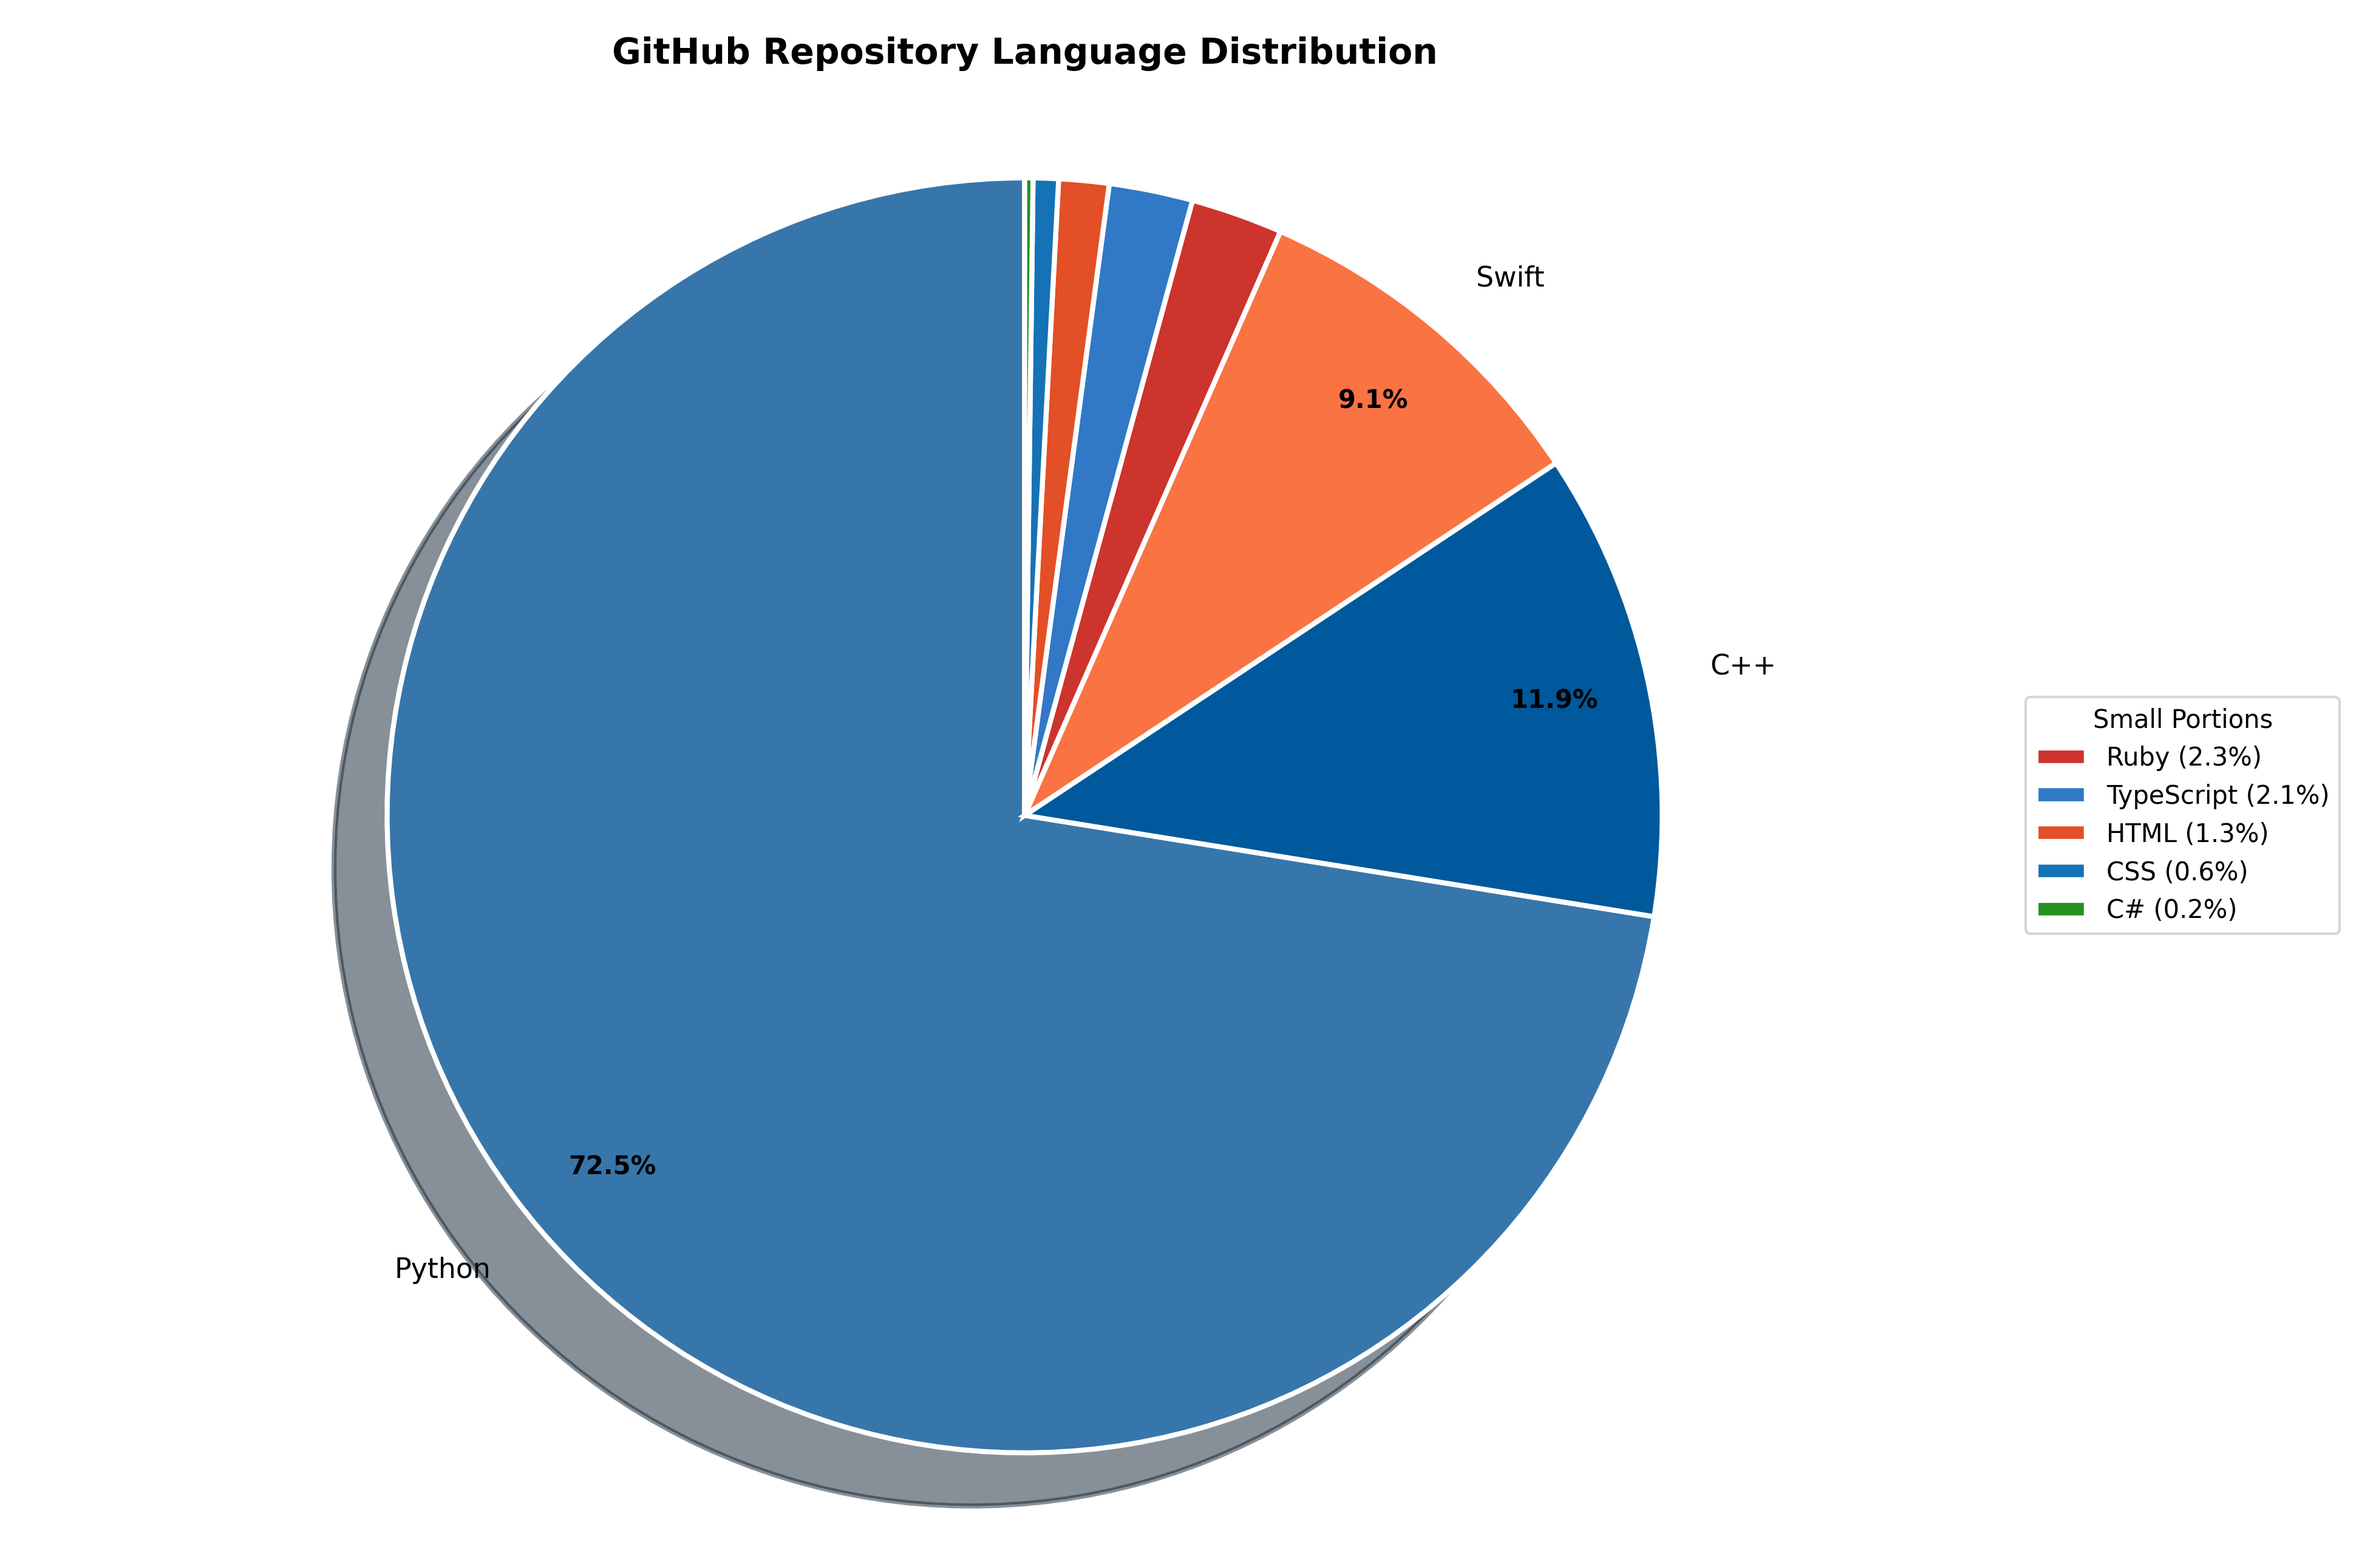
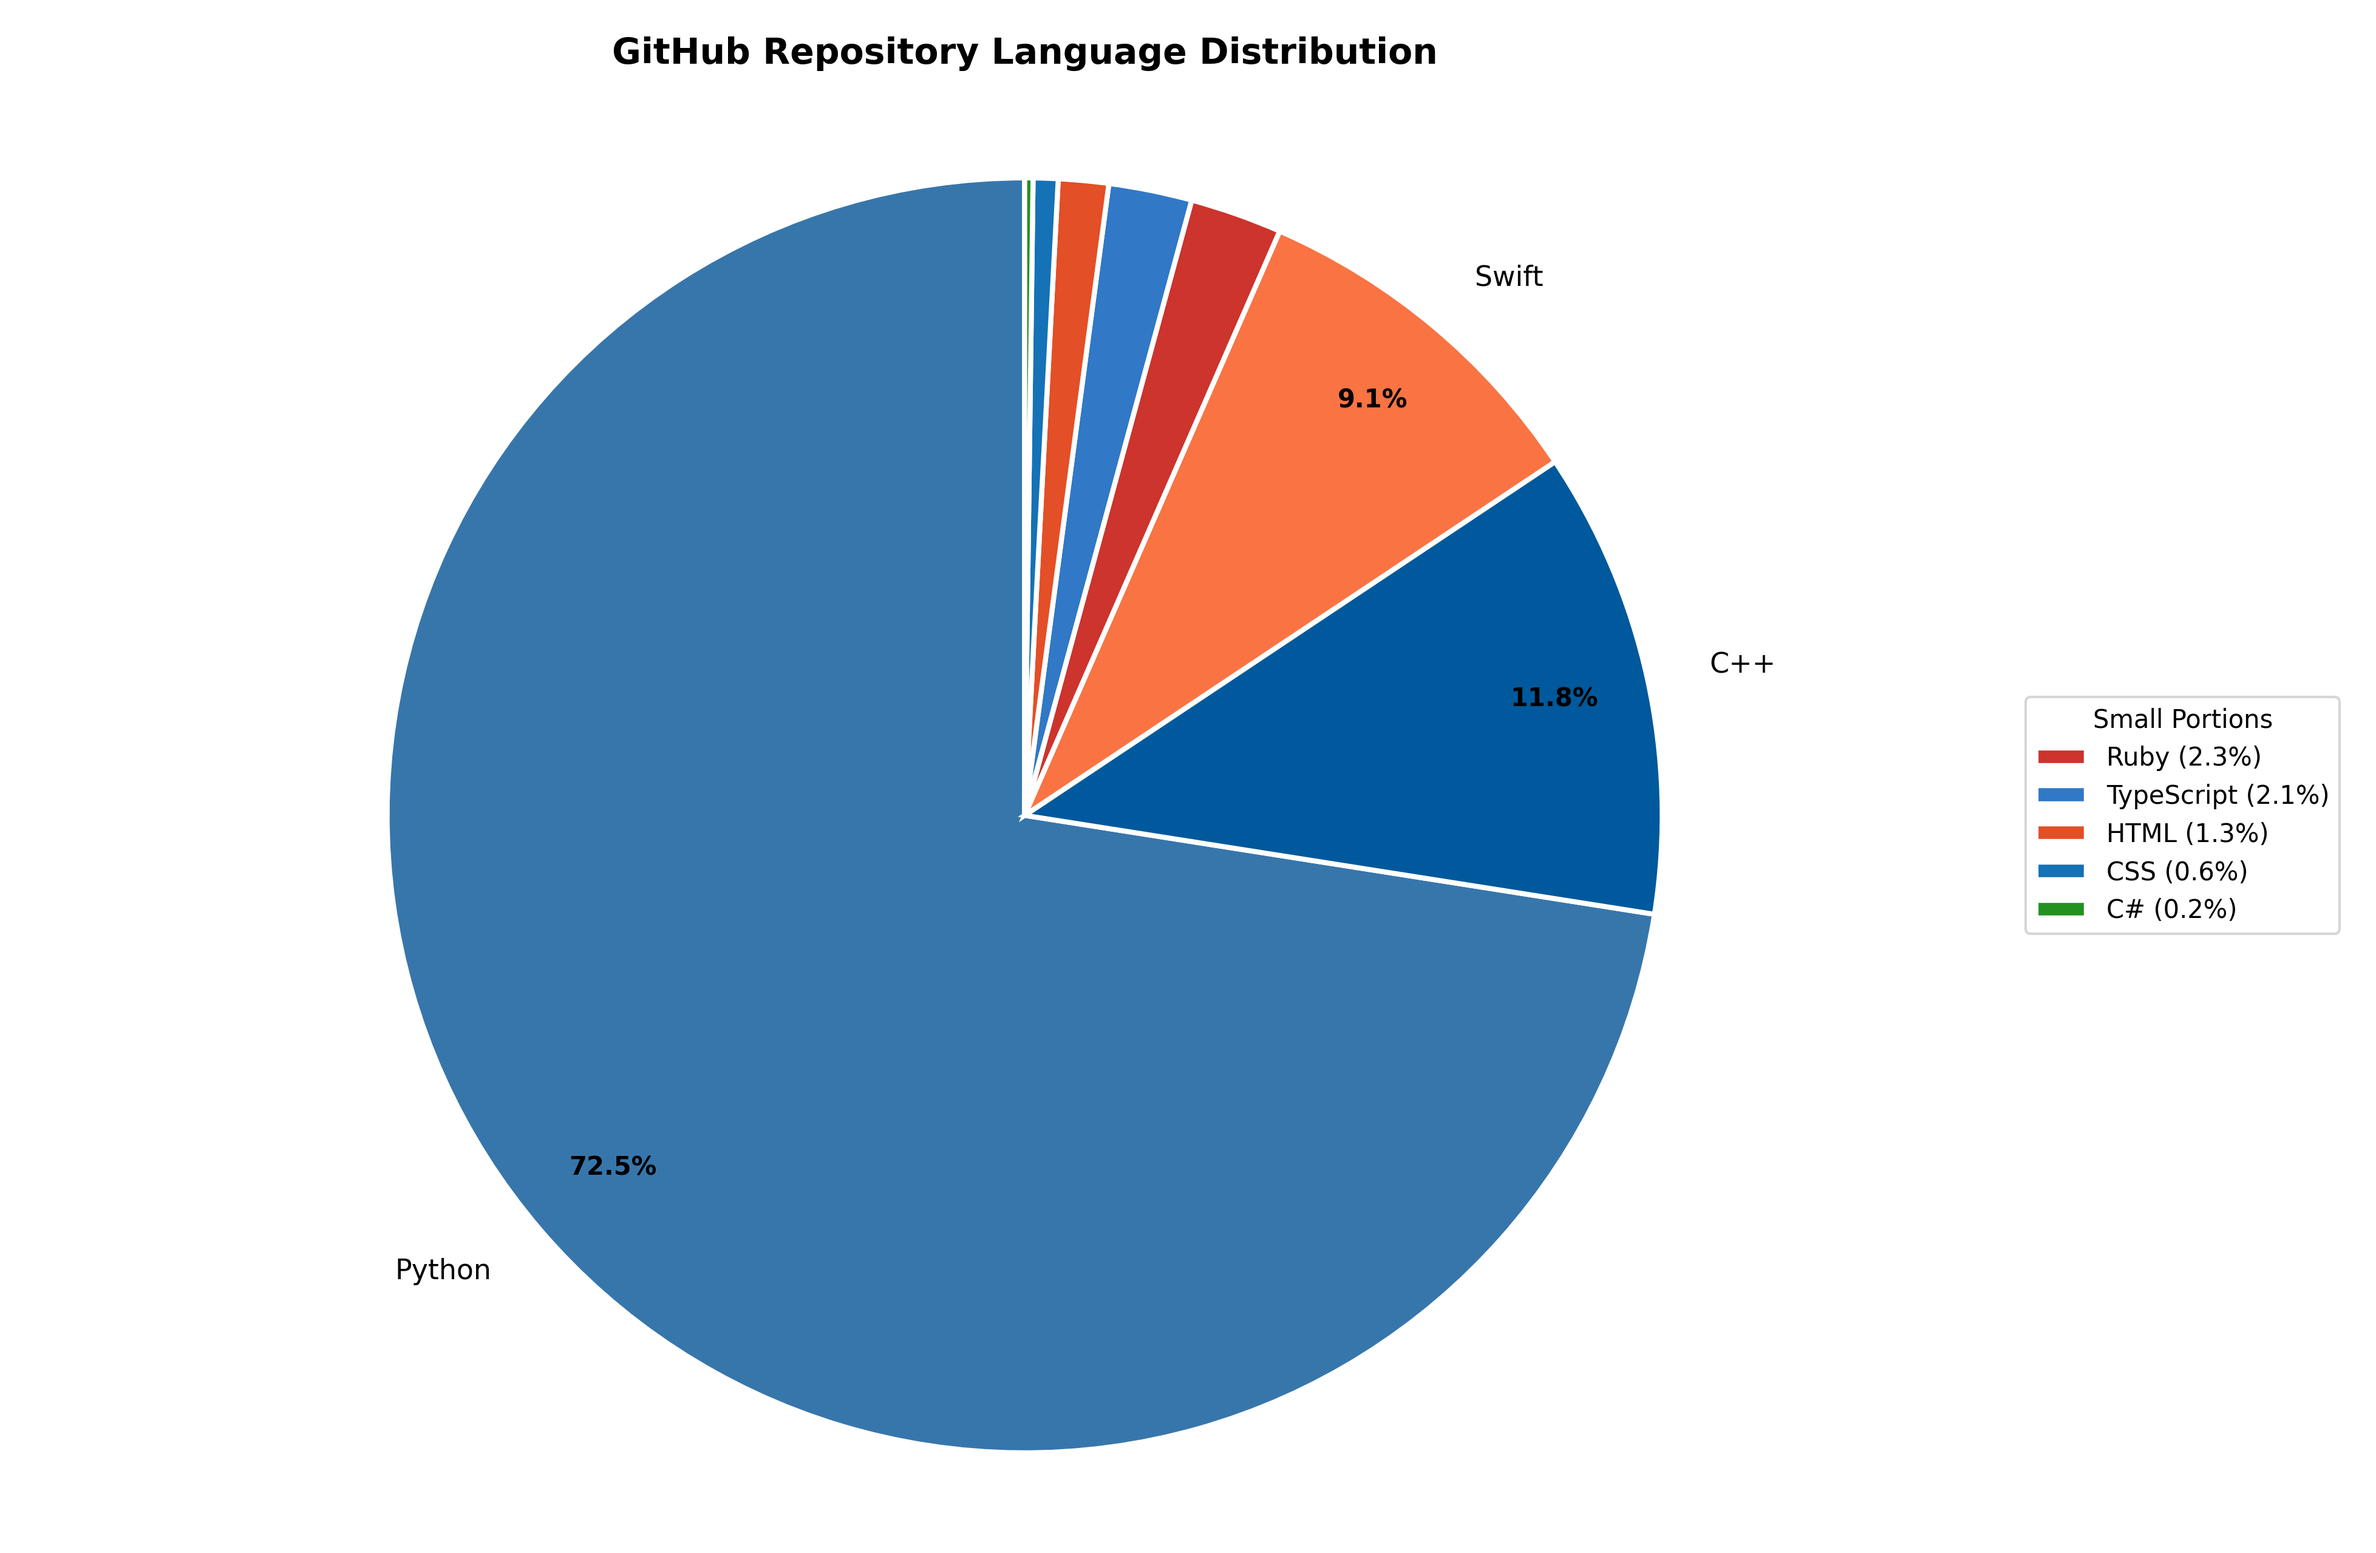
v0.0.1

diff --git a/MyLife/visualize.py b/MyLife/visualize.py
@@ -65,7 +65,6 @@ def create_language_pie(language_stats):
                                       autopct='%1.1f%%',
                                       pctdistance=0.85,
                                       startangle=90,
-                                      shadow=True,
                                       wedgeprops={'edgecolor': 'white',
                                                  'linewidth': 2,
                                                  'antialiased': True})
@@ -107,19 +106,24 @@ def create_language_pie(language_stats):
 
 def create_repo_timeline(timeline_data):
     """Create a timeline visualization of repositories with stacked bars."""
-    if not timeline_data:
+    if not timeline_data or not isinstance(timeline_data, dict):
         return
     
     # Create figure
     plt.figure(figsize=(15, 8))
     
+    # Extract data
+    data = timeline_data.get('timeline', [])
+    total_stars = timeline_data.get('total_stars', 0)
+    total_downloads = timeline_data.get('total_downloads', 0)
+    
     # Prepare data
-    periods = [group['period'] for group in timeline_data]
+    periods = [group['period'] for group in data]
     
     # Generate unique colors and patterns for repositories
     all_repos = sorted(set(
         repo['name']
-        for period_data in timeline_data
+        for period_data in data
         for repo in period_data['repos']
     ))
     
@@ -143,7 +147,7 @@ def create_repo_timeline(timeline_data):
     bottom = np.zeros(len(periods))
     
     # Create stacked bars for each period
-    for idx, period_data in enumerate(timeline_data):
+    for idx, period_data in enumerate(data):
         sorted_repos = sorted(period_data['repos'], key=lambda x: x['commits'], reverse=True)
         
         for repo in sorted_repos:
@@ -157,8 +161,8 @@ def create_repo_timeline(timeline_data):
                          color=color, width=0.8,
                          edgecolor=style['color'],
                          linewidth=2,
-                         hatch=style['hatch'] * 2,  # 双重条纹使图案更明显
-                         alpha=0.9 if style['hatch'] else 1)  # 带条纹的稍微透明
+                         hatch=style['hatch'] * 2,
+                         alpha=0.9 if style['hatch'] else 1)
             
             bottom[idx] += commits
             all_languages.add(lang)
@@ -170,7 +174,9 @@ def create_repo_timeline(timeline_data):
                 fontsize=10, weight='bold')
     
     # Customize plot
-    plt.title("Monthly Commit Activity", pad=20, size=14, weight='bold')
+    plt.suptitle("Monthly Commit Activity", size=14, weight='bold')
+    plt.title(f"Total Stars: {total_stars} | Total Downloads: {total_downloads:,}",
+             size=10, pad=10)
     plt.xlabel("Time Period")
     plt.ylabel("Number of Commits")
     
@@ -206,7 +212,7 @@ def create_repo_timeline(timeline_data):
                bbox_to_anchor=(1.01, 0.6))
     
     # Adjust layout
-    plt.subplots_adjust(right=0.75)  # 增加右边距以适应图例
+    plt.subplots_adjust(right=0.75)  #  Adjust layout to fit legends 
     plt.savefig('repo_timeline.png', 
                 dpi=300,
                 bbox_inches='tight',
@@ -215,12 +221,17 @@ def create_repo_timeline(timeline_data):
 
 def create_repo_wordcloud(timeline_data):
     """Create a word cloud visualization of repositories weighted by commit counts."""
-    if not timeline_data:
+    if not timeline_data or not isinstance(timeline_data, dict):
+        return
+    
+    # Extract timeline data from dictionary
+    data = timeline_data.get('timeline', [])
+    if not data:
         return
     
     # Calculate total commits per repository
     repo_weights = defaultdict(int)
-    for period in timeline_data:
+    for period in data:
         for repo in period['repos']:
             repo_weights[repo['name']] += repo['commits']
     

diff --git a/main.py b/main.py
@@ -1,5 +1,5 @@
+# See the full Repo: https://github.com/HNRobert/Python-Style-Resume
 import MyLife
-
 
 class HNRobert:
     def __init__(self):
@@ -65,7 +65,6 @@ class HNRobert:
             "🖇 Teamwork", "✅ Problem-solving", "📇 Communication",
             "🎨 Designing", "🚴 Cycling", "🏸 Badminton"
         )
-
 
 if __name__ == "__main__":
     resume = HNRobert()

diff --git a/MyLife/__init__.py b/MyLife/__init__.py
@@ -1,5 +1,6 @@
 from .github_stats import get_language_stats, get_repo_timeline
-from .visualize import create_language_pie, create_repo_timeline, create_repo_wordcloud
+from .visualize import (create_language_pie, create_repo_timeline,
+                        create_repo_wordcloud)
 
 
 def list_skills(skills):
